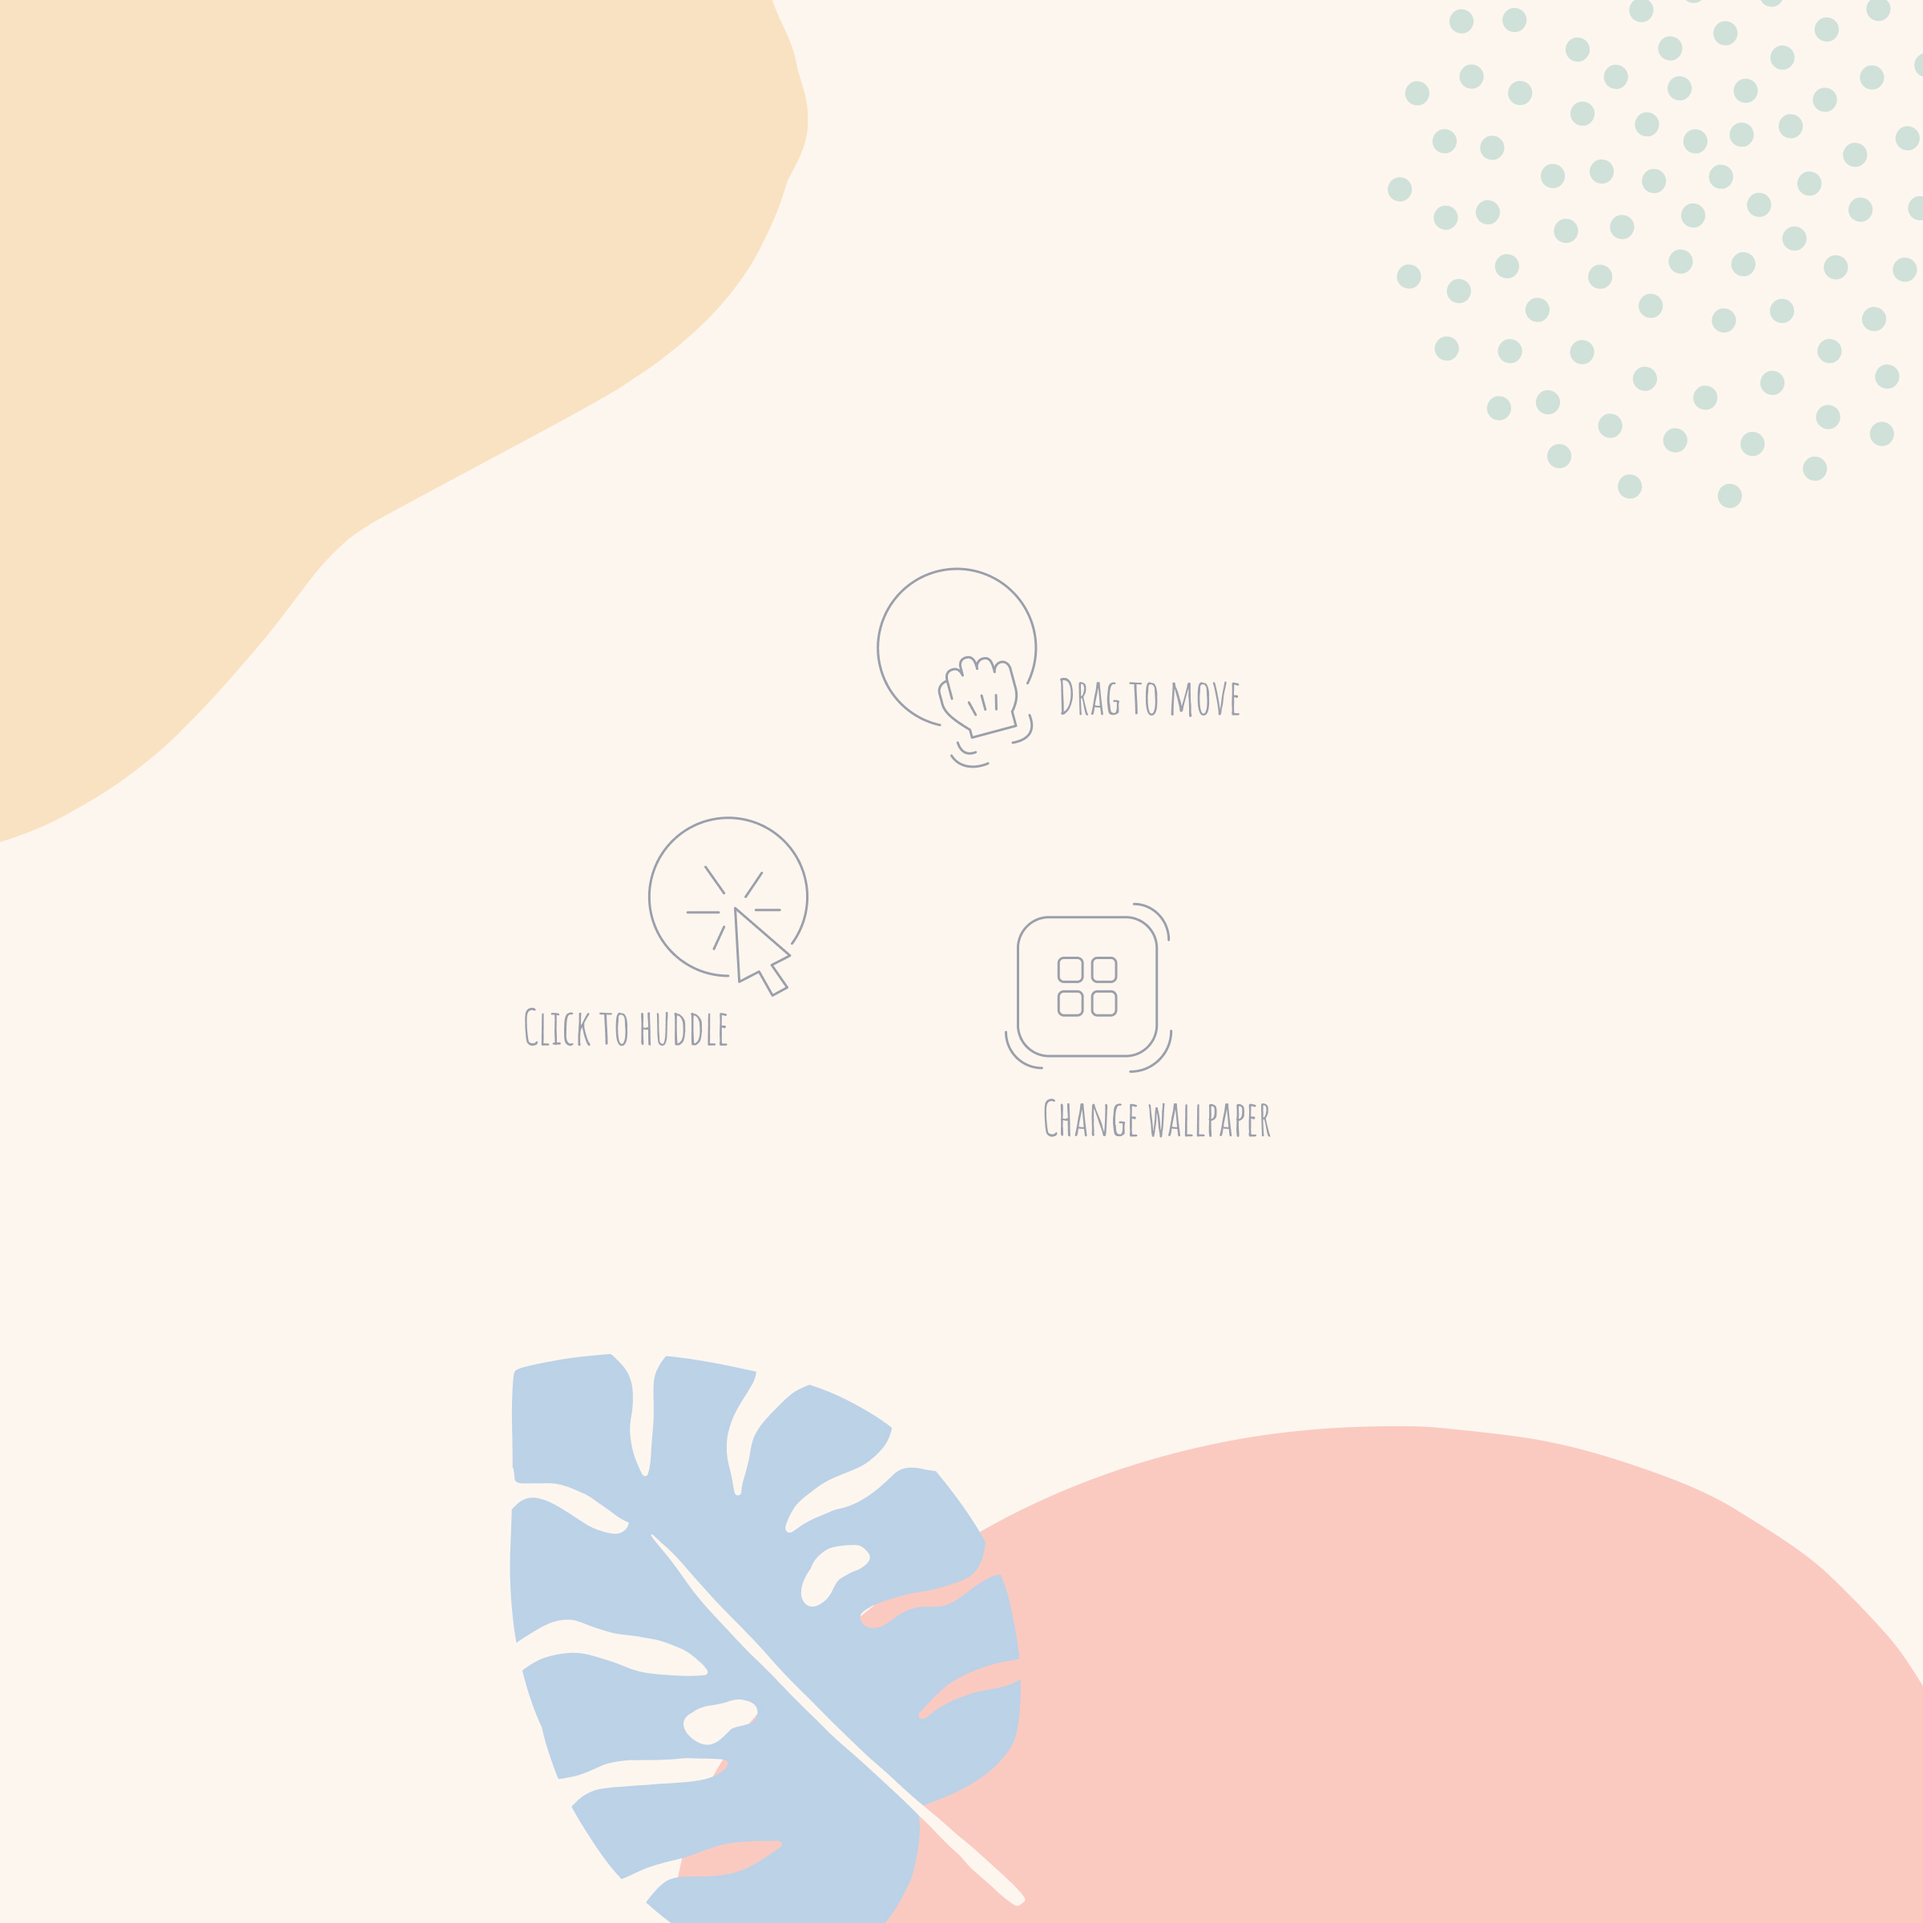
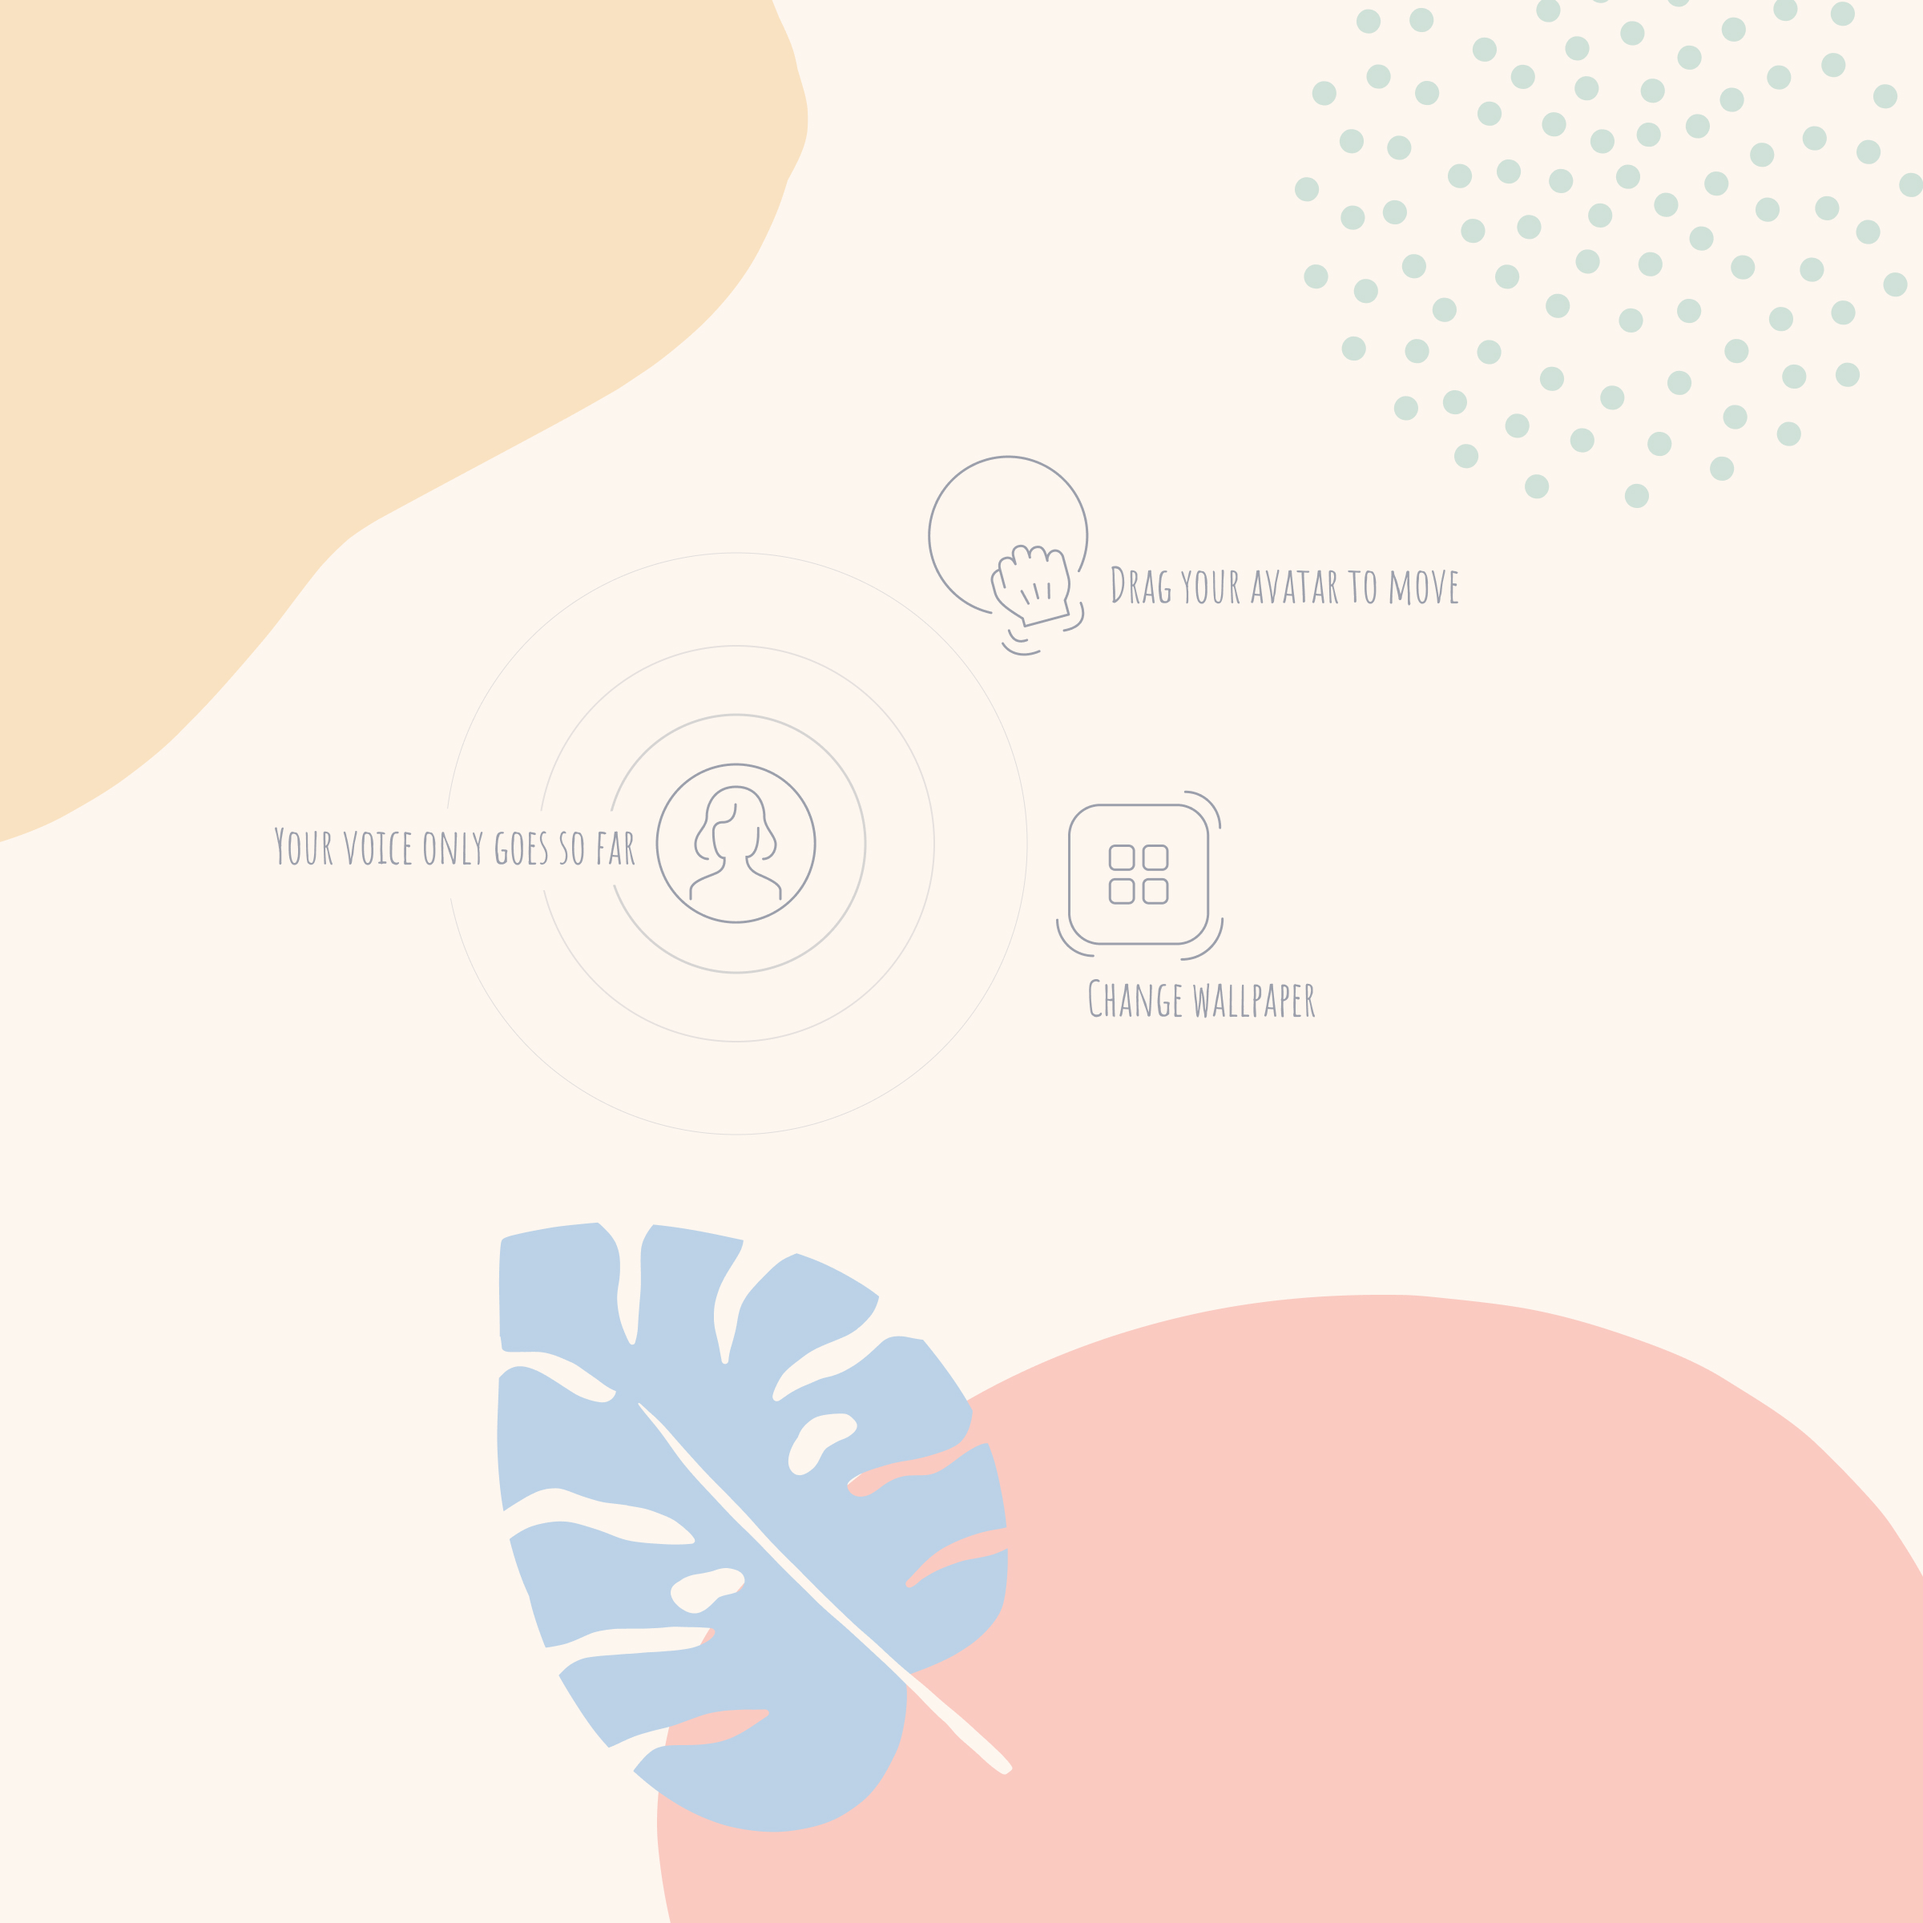
Change default wallpaper (#145)

diff --git a/CHANGELOG.md b/CHANGELOG.md
@@ -1,3 +1,7 @@
+## 1.81.0
+
+- Change default wallpaper to explain spatial audio and remove huddle
+
 ## 1.80.0
 
 - Change darren room password
